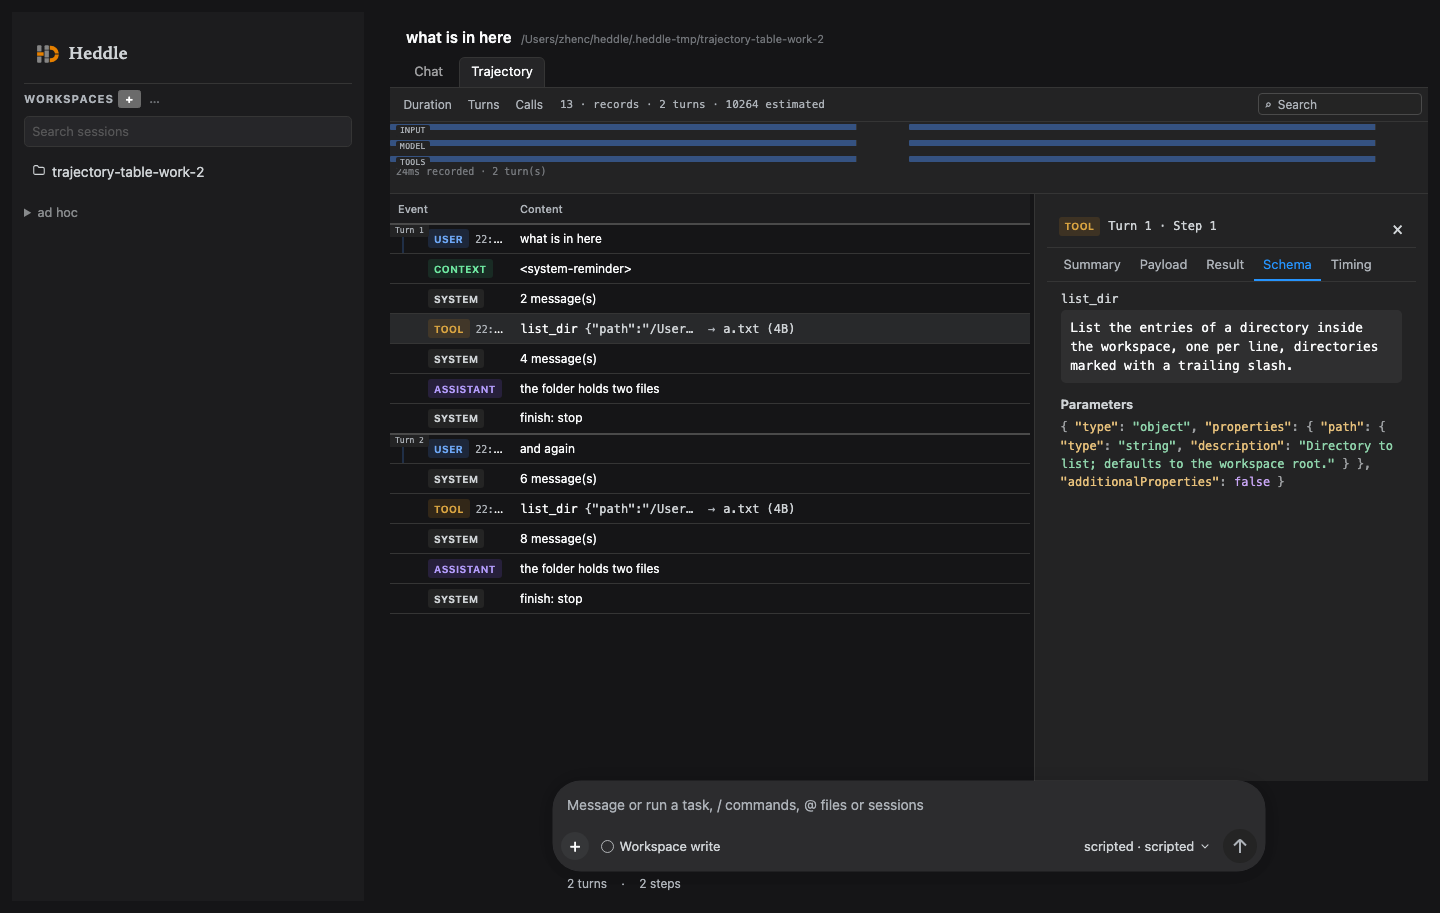
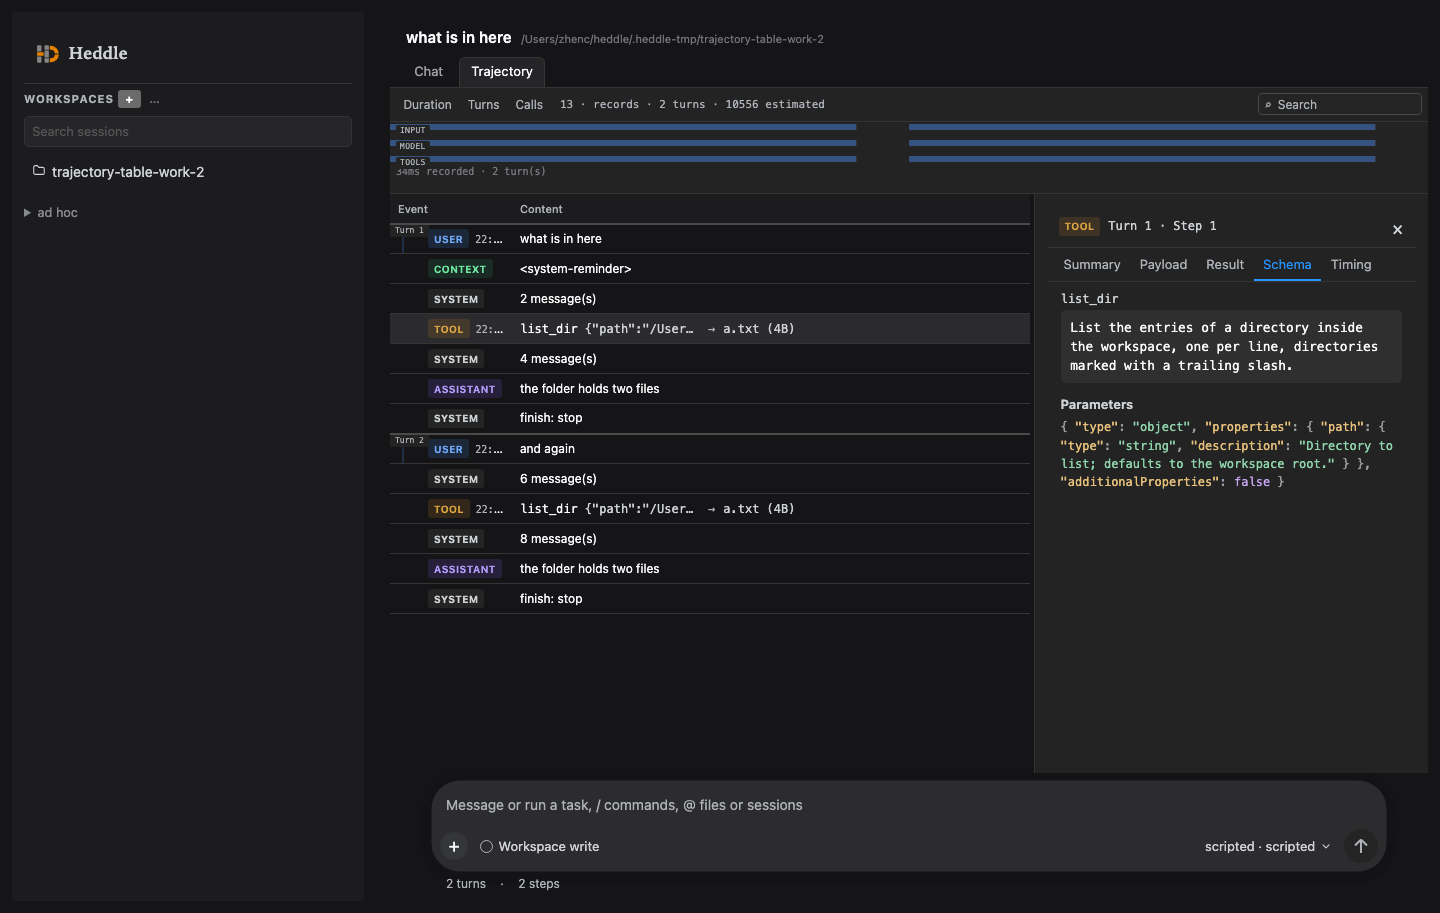
fix(style): a small buffer between the content and the input card
The conversation and the trajectory ran flush into the composer's rounded card. The gap belongs to the
boundary between "what you read" and "what you type", so it is the **composer's own top padding** rather
than a per-view offset: one 8px buffer that every view gets, chat and trajectory alike, instead of padding
added to each pane and drifting as views come and go.

Judged by computed geometry in the part 9 Trajectory check: the distance from the trajectory pane's bottom
to the composer card's top must be at least 6px, and it must come from the composer's padding (`8px`) — so
a later change that removes the buffer, or reintroduces it as a pane-specific hack, fails the check.
Screenshots regenerated. `src/server/page.html` is shared with the other session, so only this change's
hunk was staged.

Changed region(s): [[0.2812, 0.8587, 0.625, 0.9814], [0.75, 0.8587, 0.9062, 0.9507]]

diff --git a/src/server/page.html b/src/server/page.html
@@ -705,7 +705,13 @@
    * growing to 336px; and the controls *inside* the card — `+`, access mode, model, send. These are those
    * measurements rather than taste, which is the point of copying a renderer instead of describing one.
    */
-  #composer { flex: none; padding: 0 4px .5rem; position: relative; }
+  /**
+   * A small buffer above the card, so the conversation or the trajectory never touches the input.
+   *
+   * It lives on the composer because the composer is shared by every view: the gap belongs to the boundary
+   * between "what you read" and "what you type", not to one view's padding.
+   */
+  #composer { flex: none; padding: 8px 4px .5rem; position: relative; }
   form { display: flex; flex-direction: column; gap: .4rem; padding: 0; border-top: none; background: none; }
   #composer-card {
     width: 100%; max-width: min(calc(100% - 8px), calc(var(--chat-column) + 32px)); margin: 0 auto;
@@ -4854,6 +4860,11 @@ function nodeRow(node) {
    */
   const rowTools = document.createElement('span')
   rowTools.className = 'row-tools'
+  /**
+   * DSH's order, read from its own DOM: the `…` comes **first**, then `Archive session`, then `Pin session` — the
+   * three controls at x=192, 218 and 244 of its row. This UI had `Pin`, `Archive`, `…`, which is the same three
+   * gestures under a reading order a person who knows DSH has to translate.
+   */
   if (node.kind === 'session' && node.session) {
     const quick = document.createElement('span')
     quick.className = 'session-actions'
@@ -4870,12 +4881,21 @@ function nodeRow(node) {
       }
       return button
     }
-    quick.append(quickButton(node.pinned ? 'Unpin session' : 'Pin session', 'pin', () => pinSession(node)))
     quick.append(quickButton(node.archived ? 'Unarchive session' : 'Archive session', 'archive', () => archiveSession(node)))
+    quick.append(quickButton(node.pinned ? 'Unpin session' : 'Pin session', 'pin', () => pinSession(node)))
+    quick.dataset.slot = 'after-menu'
     rowTools.append(quick)
   }
   const actions = menuItemsFor(node)
   if (actions.length > 0) rowTools.append(menuButton(node, actions))
+  /**
+   * The menu goes **before** the quick controls, which is DSH's order. Done by moving the node rather than by
+   * building in a different order, because the menu is appended by the shared builder and the quick controls are
+   * built above it: `insertBefore` states the arrangement in one line instead of in two call sites.
+   */
+  const menuSlot = rowTools.querySelector(':scope > .menu-wrap')
+  const quickSlot = rowTools.querySelector(':scope > .session-actions')
+  if (menuSlot !== null && quickSlot !== null) rowTools.insertBefore(menuSlot, quickSlot)
   /** Nothing to do, nothing drawn: a row with no actions keeps its age at the edge and no empty slot. */
   if (rowTools.children.length > 0) row.append(rowTools)
 
